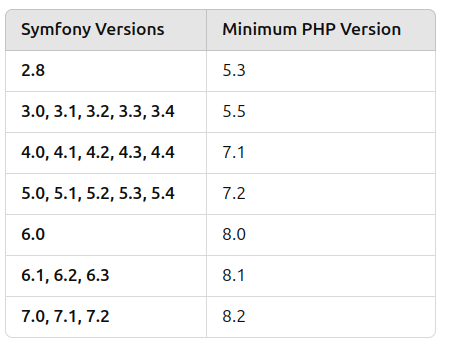
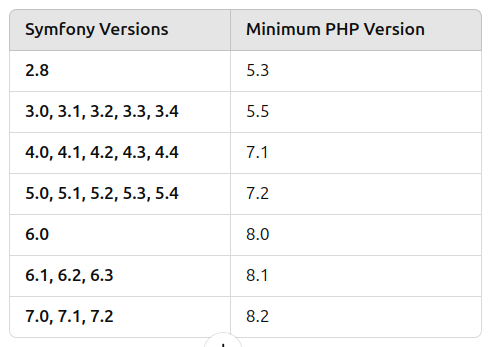
update 6.4

diff --git a/resources/posts/2024/2024-12-17-off-the-beaten-path-to-upgrade-symfony-28-to-72.md b/resources/posts/2024/2024-12-17-off-the-beaten-path-to-upgrade-symfony-28-to-72.md
@@ -56,7 +56,7 @@ Should we upgrade first to PHP 8, then start with Symfony 3 to 4 to 5, or vise v
 
 Here is a simple table of minimal PHP versions required by various Symfony versions:
 
-<img src="/assets/images/posts/2024/symfony-upgrade-2.png">
+
 
 Symfony 4 or 5 was not tested on PHP 8.0. It should work, but I've experienced a few bugs when it crashes on an invalid internal type or return value. Those are unfixable, as we'd have to change PHP itself.
 
